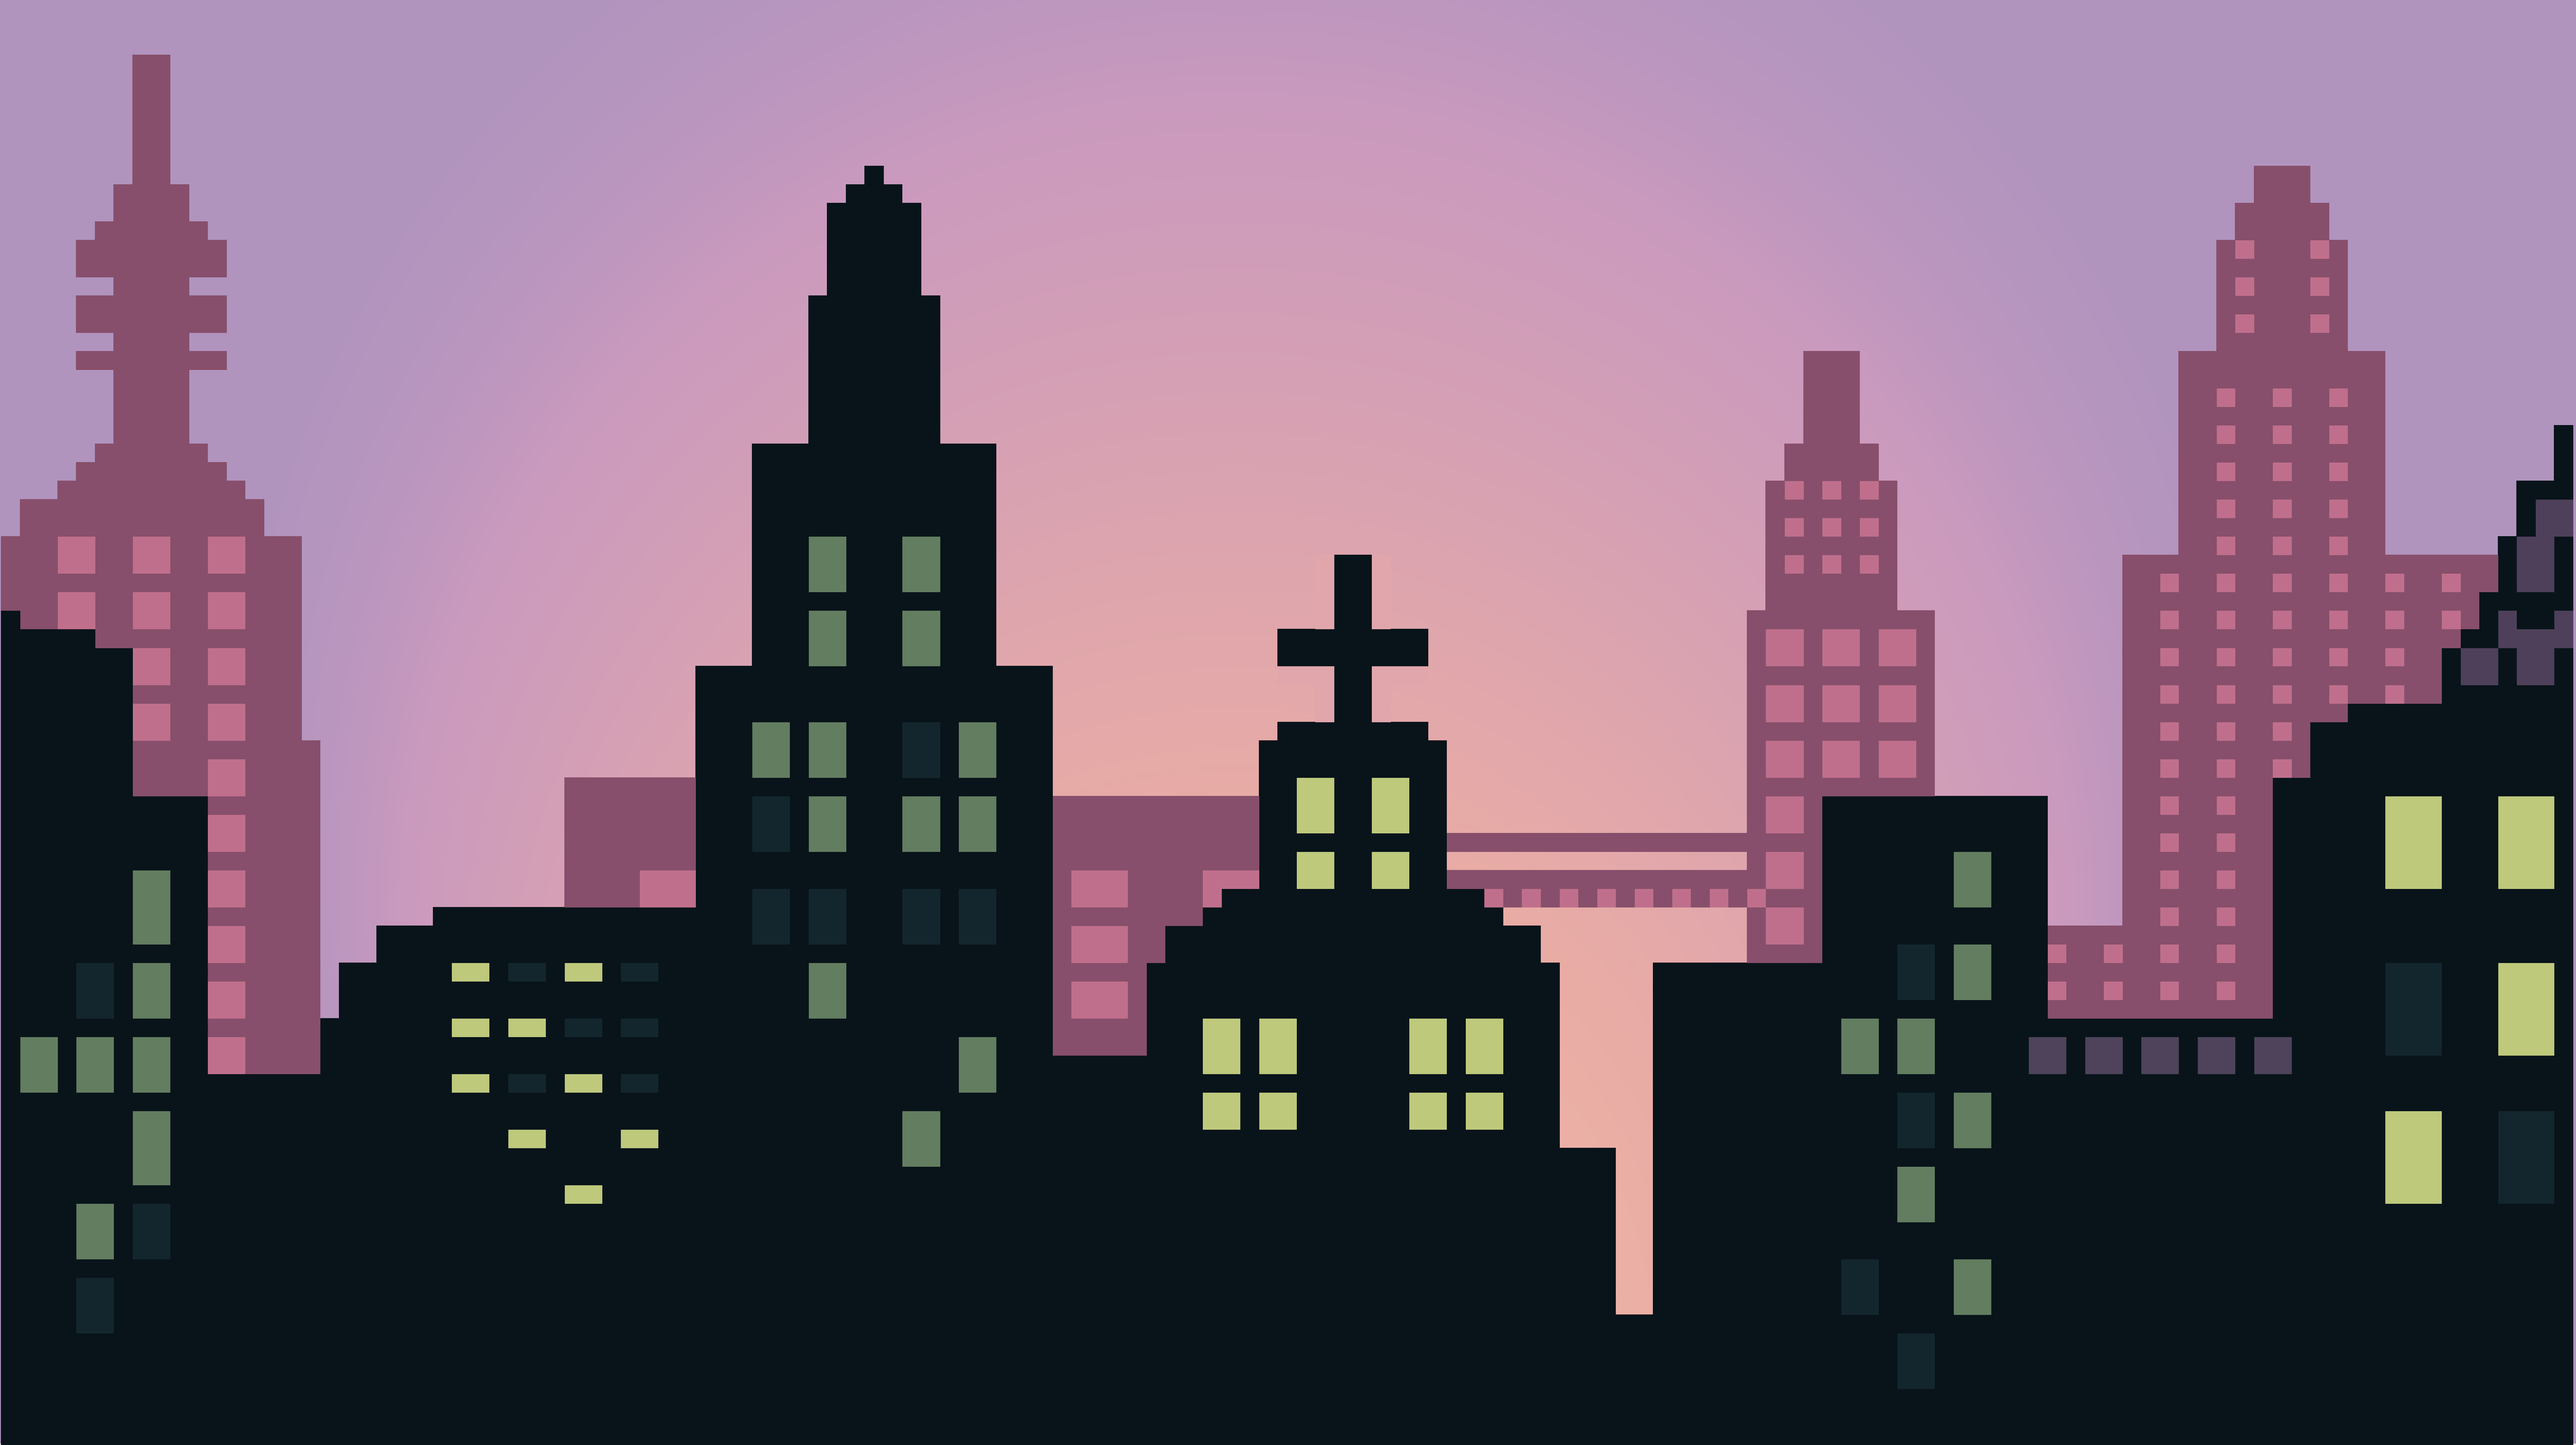
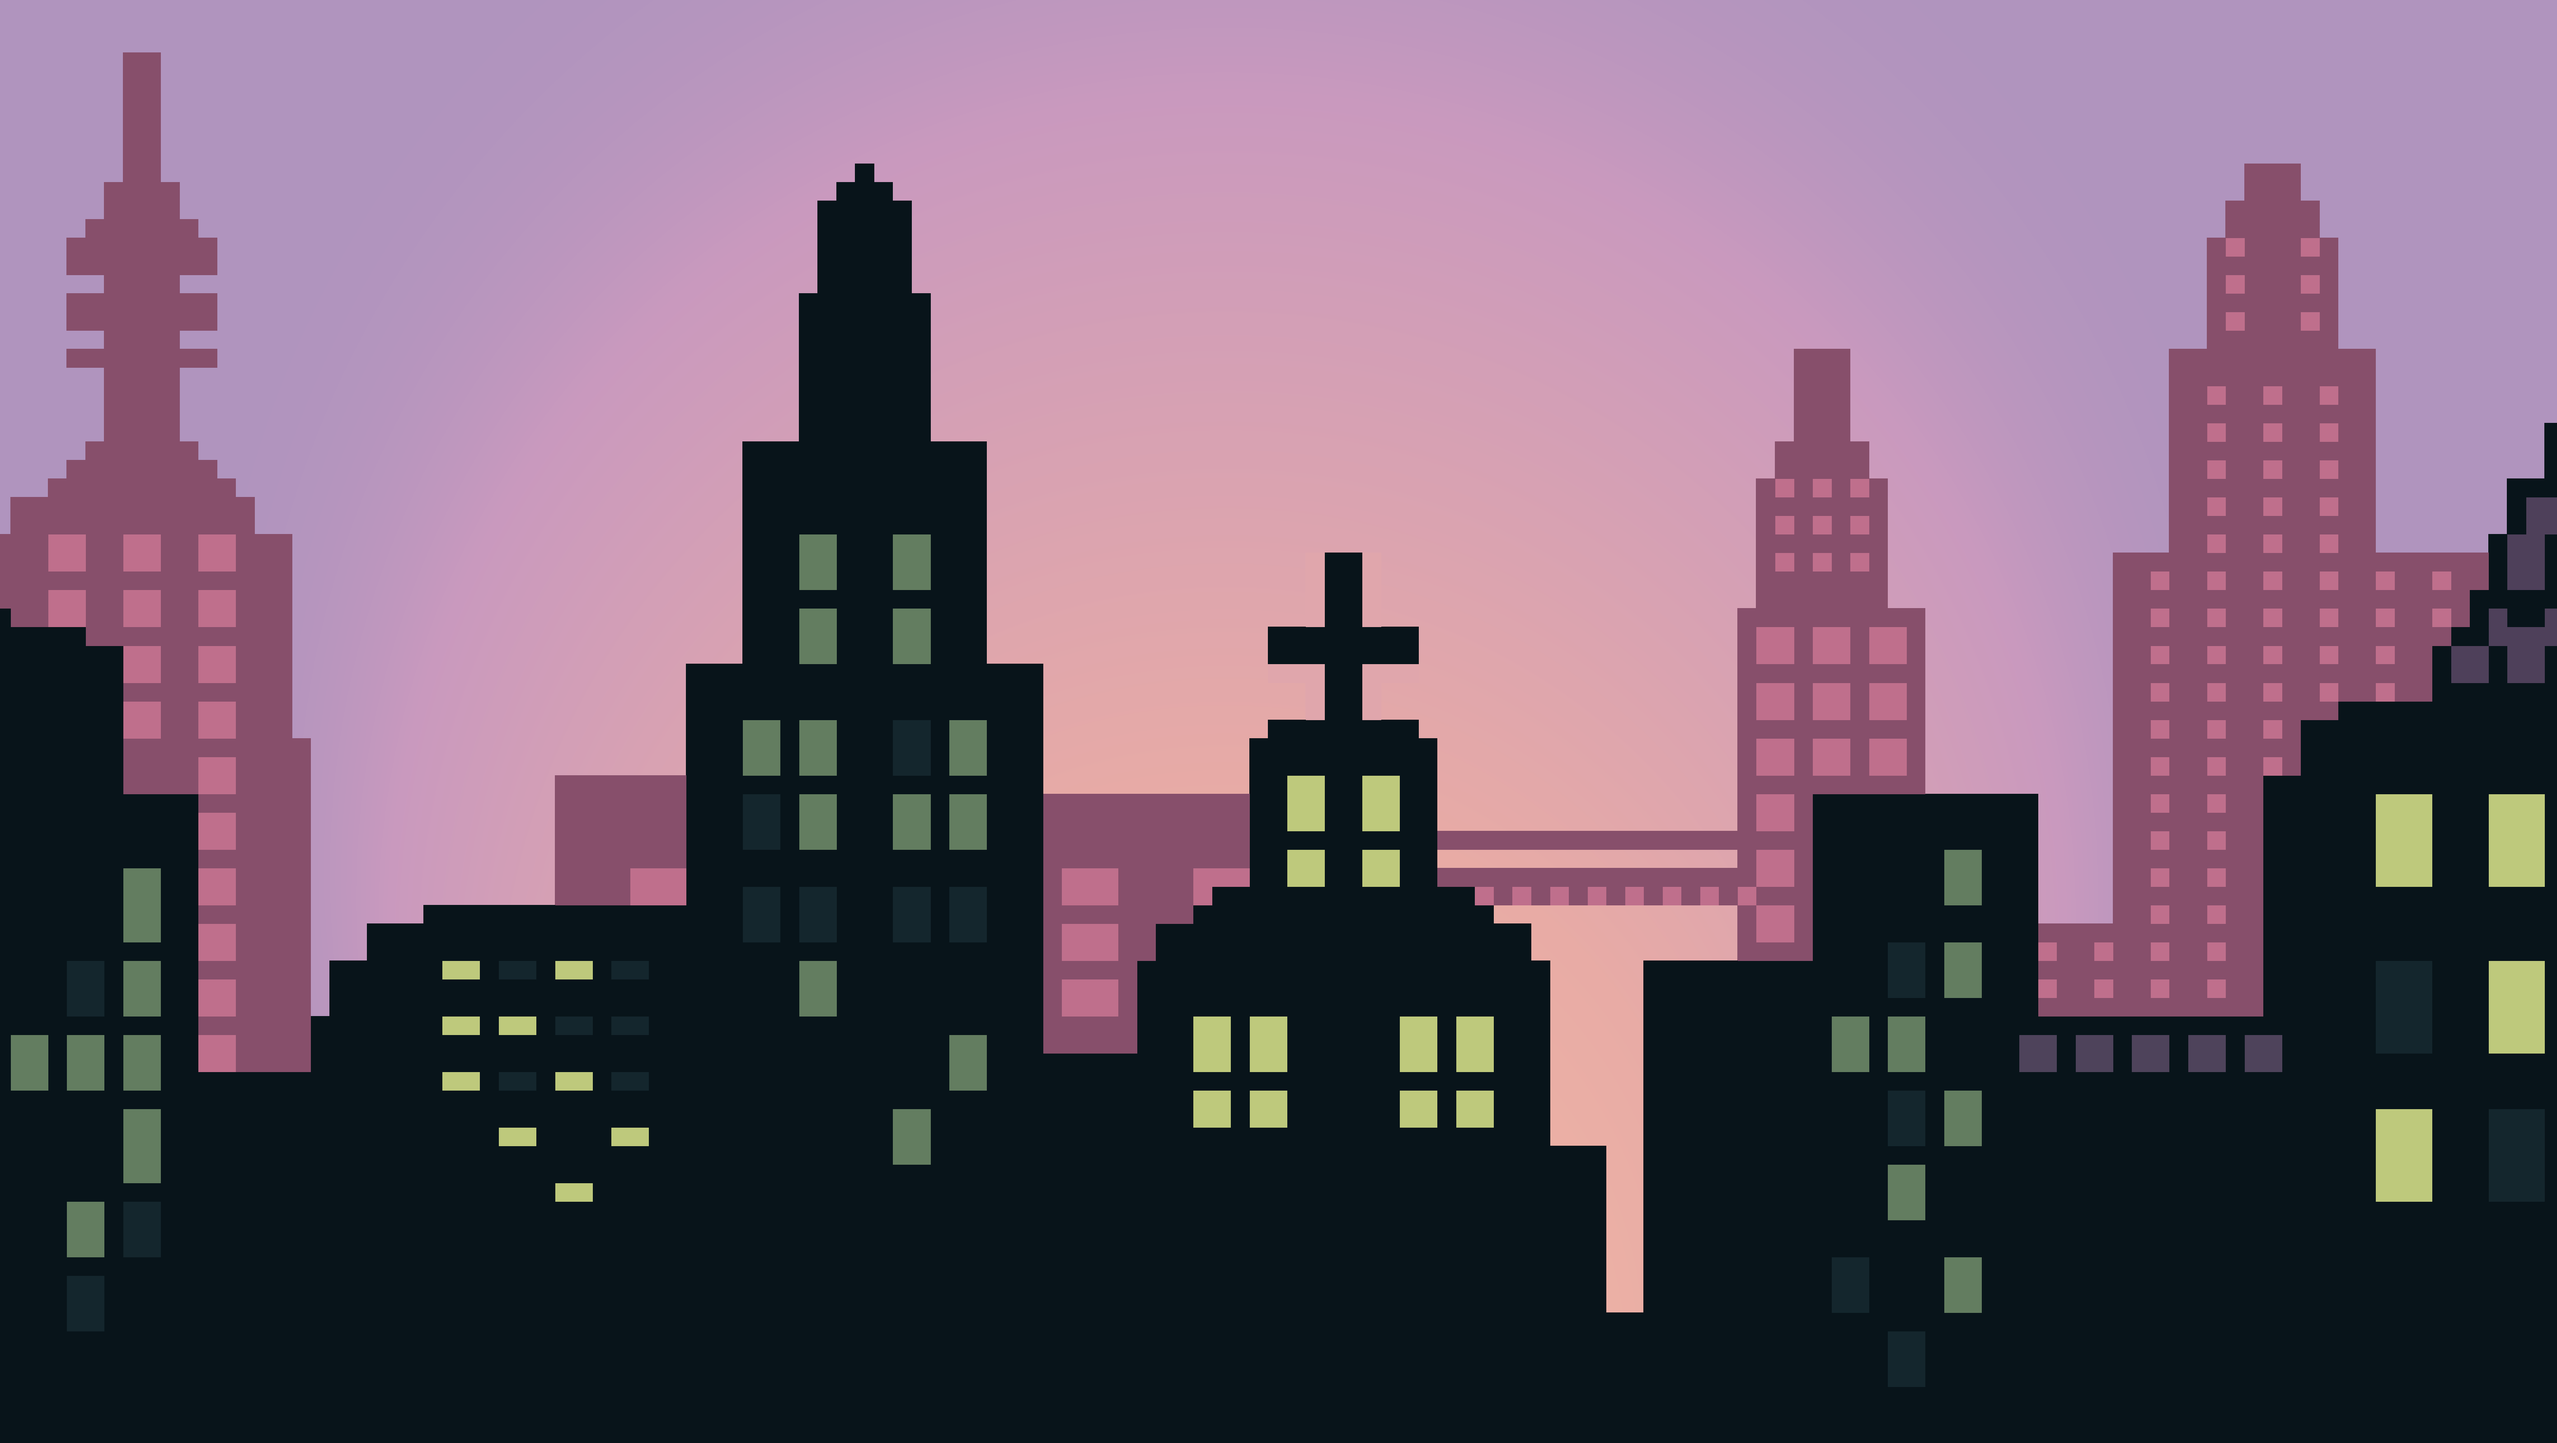
set scorlling background

diff --git a/source/core/src/main/com/deco2800/game/areas/ForestGameArea.java b/source/core/src/main/com/deco2800/game/areas/ForestGameArea.java
@@ -8,6 +8,7 @@ import com.deco2800.game.areas.terrain.TerrainFactory.TerrainType;
 import com.deco2800.game.components.player.PlayerStatsDisplay;
 import com.deco2800.game.entities.Entity;
 import com.deco2800.game.entities.factories.*;
+import com.deco2800.game.rendering.BackgroundRenderComponent;
 import com.deco2800.game.utils.math.GridPoint2Utils;
 import com.deco2800.game.utils.math.RandomUtils;
 import com.deco2800.game.services.ResourceService;
@@ -123,6 +124,7 @@ public class ForestGameArea extends GameArea {
             "images/obstacle2_vision2.png",
             "images/mpcMovement.png",
             "images/stone.png",
+            "images/background.png"
 
 
     };
@@ -161,10 +163,10 @@ public class ForestGameArea extends GameArea {
     @Override
     public void create() {
         loadAssets();
-
+        showBackground();
         displayUI();
-
         spawnTerrain();
+
 //        spawnRocks();
 //        spawnWoods();
 
@@ -177,6 +179,20 @@ public class ForestGameArea extends GameArea {
         spawnFirstAid();
         playMusic();
         trackAchievements();
+    }
+
+    private void showBackground() {
+        Entity gameBg = new Entity();
+        gameBg.addComponent(new BackgroundRenderComponent("images/background.png"));
+        spawnEntity(gameBg);
+    }
+
+    public void showScrollingBackground(int counter) {
+        Entity gameBg = new Entity();
+        BackgroundRenderComponent newBg = new BackgroundRenderComponent("images/background.png");
+        newBg.setHorizontal(30f * counter);
+        gameBg.addComponent(newBg);
+        spawnEntity(gameBg);
     }
 
     private void displayUI() {

diff --git a/source/core/src/main/com/deco2800/game/rendering/BackgroundRenderComponent.java b/source/core/src/main/com/deco2800/game/rendering/BackgroundRenderComponent.java
@@ -1,0 +1,49 @@
+package com.deco2800.game.rendering;
+
+import com.badlogic.gdx.graphics.Camera;
+import com.badlogic.gdx.graphics.Texture;
+import com.badlogic.gdx.graphics.g2d.SpriteBatch;
+import com.badlogic.gdx.math.Vector3;
+import com.deco2800.game.services.ServiceLocator;
+
+/**
+ * Render the background texture.
+ */
+public class BackgroundRenderComponent extends RenderComponent {
+    private Texture texture;
+    private String texturePath;
+    private float horizontal = 0;
+
+    public BackgroundRenderComponent(String texturePath) {
+        this.texturePath = texturePath;
+    }
+
+    @Override
+    public void create() {
+        super.create();
+        texture = ServiceLocator.getResourceService().getAsset(texturePath, Texture.class);
+    }
+
+    @Override
+    public void draw(SpriteBatch batch) {
+        batch.draw(texture, horizontal, 0, 30, 15);
+    }
+
+    @Override
+    public int getLayer() {
+        return 0;
+    }
+
+    @Override
+    public float getZIndex() {
+        return 0;
+    }
+
+    /**
+     * Set the horizontal start point for the background texture
+     * @param x horizontal value
+     */
+    public void setHorizontal(float x) {
+        horizontal = x;
+    }
+}

diff --git a/source/core/src/main/com/deco2800/game/screens/MainGameScreen.java b/source/core/src/main/com/deco2800/game/screens/MainGameScreen.java
@@ -117,6 +117,7 @@ public class MainGameScreen extends ScreenAdapter {
     // infinite loop for terrain and obstacles
     if(screenVector.x > (2*counter+1)*10) {
       counter+=1;
+      forestGameArea.showScrollingBackground(counter);
       forestGameArea.spawnTerrainRandomly((int) (screenVector.x+2));
 //      forestGameArea.spawnRocksRandomly((int) (screenVector.x+2));
 //      forestGameArea.spawnWoodsRandomly((int) (screenVector.x+2));

diff --git a/source/core/src/main/com/deco2800/game/areas/terrain/TerrainComponent.java b/source/core/src/main/com/deco2800/game/areas/terrain/TerrainComponent.java
@@ -14,7 +14,7 @@ import com.deco2800.game.rendering.RenderComponent;
  * shows the 'ground' in the game. Enabling/disabling this component will show/hide the terrain.
  */
 public class TerrainComponent extends RenderComponent {
-  private static final int TERRAIN_LAYER = 0;
+  private static final int TERRAIN_LAYER = 1;
 
   private final TiledMap tiledMap;
   private final TiledMapRenderer tiledMapRenderer;
